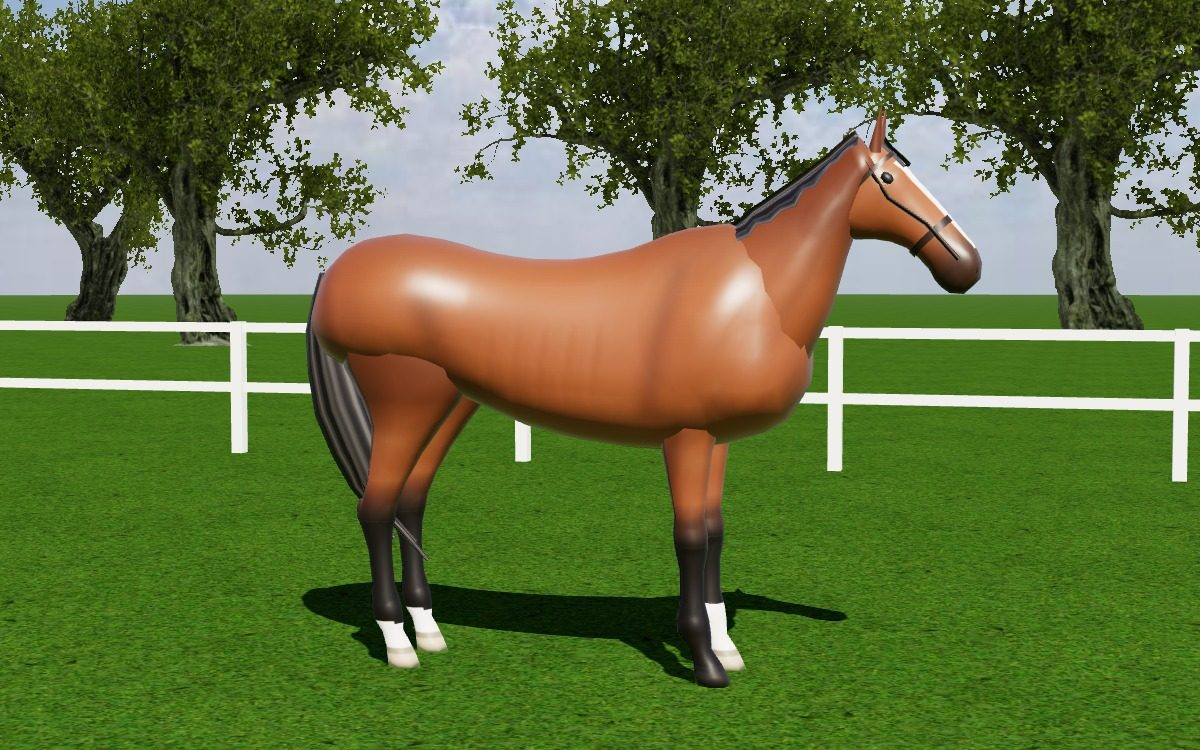
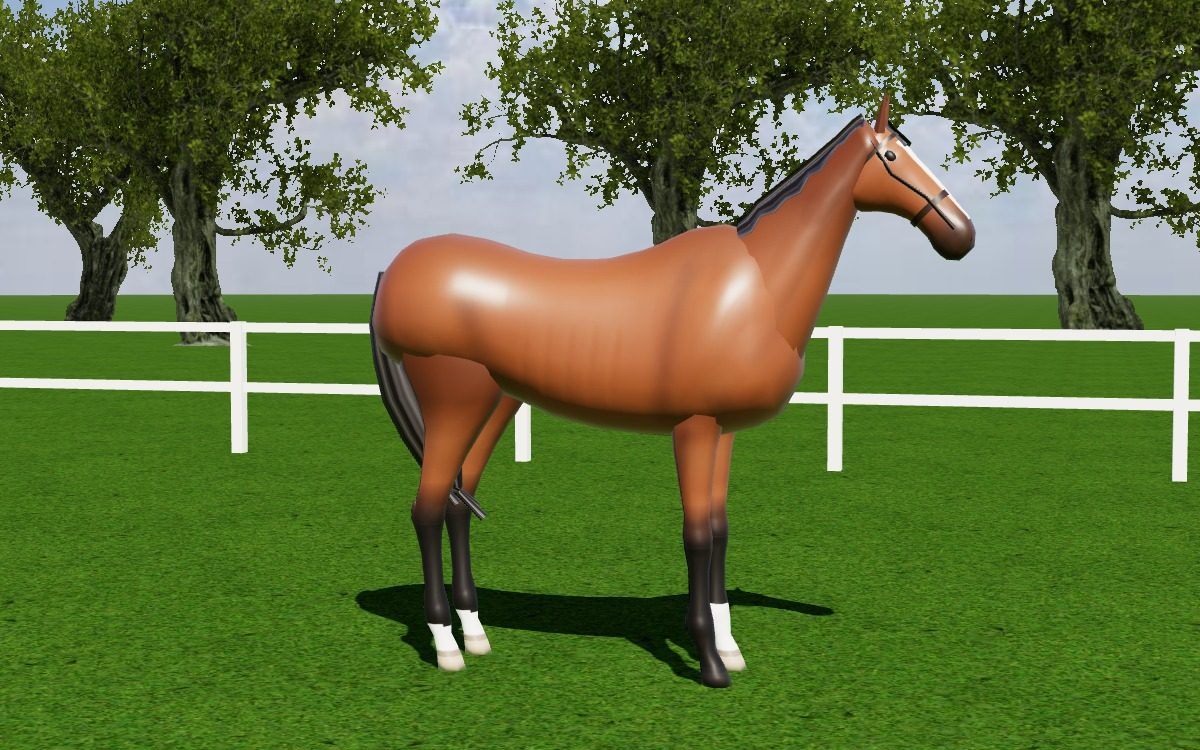
馬の体の比をサラブレッドに・芦毛の連銭をぼかした斑点に（配り役から伝わった依頼）
- 形と骨を表の座標で作ってから写し直す（mapBone・mapPt）：前脚より後ろを前後に 0.85 倍（体長 1.65m・体高 1.68m）、首は付け根から首の向きに 1.1 倍・太さ 0.9 倍・横 0.86 倍、頭は首の先へ動かして 0.9 倍、騎手は前後にずらすだけ。法線は写したあとに計算し直す
- 腹を上げて胴を浅く（深さ 0.79m・肘の高さ 0.97m）、胸の前の出っ張りを控えめに
- 騎手の IK（atBone）・蹄の位置（HOOF_OFF）も同じ写し方に。IK のずれは前と同じ（手 1.3cm・足 0cm）
- 毛の絵の丸いぼかしを、黒へでなく同じ色へ透けるように（縁が輪にならない）。連銭は胴と尻に多く、2〜4歳ではっきり、白くなるほど薄く（art.js の coatLook）
- テスト 'look:'：体の比と連銭の濃さの確かめを足す
- 前後の絵を docs/shots/horse3d_v2 に

Claude-Session: https://claude.ai/code/session_01HiyoSLCN7tZdgF4e9KXg2H

Changed region(s): [[0.2467, 0.1227, 0.8325, 0.92], [0.5242, 0.3067, 0.5858, 0.3373], [0.4933, 0.3373, 0.5242, 0.368]]

diff --git a/js/ui/race3d.js b/js/ui/race3d.js
@@ -428,7 +428,7 @@
   const HD = [0.62, -0.785], HU = [0.785, 0.62];        // 頭の向き（鼻先へ）と、顔の前の向き
   const GEAR0 = [1.3, 1.63];                            // 馬具の骨の付け根（頭の中。使わない馬具はここへ縮める）
   const GEAR = { shadowRoll: 32, blinkers: 33, hood: 34, cheekPieces: 35 };
-  const BONES = (() => {
+  const BONES0 = (() => {
     const b = [];
     const put = (i, par, x, y, z) => { b[i] = [par, x, y, z || 0]; };
     put(0, -1, 0, 0); put(1, 0, 0, 1.25);
@@ -442,12 +442,42 @@
     for (let i = 32; i <= 35; i++) put(i, 4, GEAR0[0], GEAR0[1]);
     return b;
   })();
+  // ---- 体の比（サラブレッド：体長と体高がほぼ同じ、首は細く長く、頭は小さく） ----
+  // 形と骨は上の表の座標で作り、最後にこの写し方で比を直す（表を書き直さずに済むように）。uv は写す前の座標のまま
+  //   胴・脚・尾：前脚より後ろ（x < PIV）を前後に KX 倍に縮める
+  //   首：付け根から首の向きに伸ばし、太さを細く。頭：首の先へ動かして小さく。騎手：胴の上で前後にずらすだけ
+  const PIV = 0.66, KX = 0.85, NK = { base: [0.5, 1.45], ang: 0.9, along: 1.1, across: 0.9, z: 0.86 }, HK0 = 0.9;
+  const tX = x => x < PIV ? PIV + (x - PIV) * KX : x;
+  const JSH = tX(0.1) - 0.1;
+  function neckMap(x, y, z) {
+    x = tX(x);
+    const bx = tX(NK.base[0]), by = NK.base[1], ca = Math.cos(NK.ang), sa = Math.sin(NK.ang);
+    const dx = x - bx, dy = y - by, u = dx * ca + dy * sa, v = -dx * sa + dy * ca;
+    const u2 = u * NK.along, v2 = v * NK.across;
+    return [bx + u2 * ca - v2 * sa, by + u2 * sa + v2 * ca, z * NK.z];
+  }
+  const HEADP = neckMap(HEAD0[0], HEAD0[1], 0);
+  function mapBone(x, y, z, bone) {
+    if (bone >= 24 && bone <= 31) return [x + JSH, y, z];
+    if (bone === 2 || bone === 3) return neckMap(x, y, z);
+    if (bone === 4 || bone >= 32) return [HEADP[0] + (x - HEAD0[0]) * HK0, HEADP[1] + (y - HEAD0[1]) * HK0, z * HK0];
+    return [tX(x), y, z];
+  }
+  // 点 P（表の座標）を、骨 a・b（b の重み w）で写す
+  function mapPt(x, y, z, a, b, w) {
+    const A = mapBone(x, y, z, a);
+    if (!w || a === b) return A;
+    const Bp = mapBone(x, y, z, b);
+    return [A[0] + (Bp[0] - A[0]) * w, A[1] + (Bp[1] - A[1]) * w, A[2] + (Bp[2] - A[2]) * w];
+  }
+  // 骨の付け根は、その骨の写し方で
+  const BONES = BONES0.map(([par, x, y, z], i) => [par].concat(mapBone(x, y, z || 0, i)));
 
   // 胴の断面：[x, 背の高さ, 腹の高さ, 横の半幅, 上ほど細く]
   const BODY_T = [
-    [0.89, 1.42, 1.12, 0.1, 0.1], [0.84, 1.54, 0.99, 0.2, 0.15], [0.74, 1.625, 0.92, 0.25, 0.24], [0.59, 1.685, 0.875, 0.27, 0.36],
-    [0.41, 1.665, 0.845, 0.28, 0.36], [0.23, 1.595, 0.85, 0.29, 0.26], [0.03, 1.555, 0.875, 0.3, 0.15], [-0.17, 1.555, 0.925, 0.3, 0.1],
-    [-0.35, 1.575, 1.0, 0.3, 0.06], [-0.53, 1.625, 1.075, 0.305, 0.04], [-0.69, 1.655, 1.1, 0.305, 0.06], [-0.83, 1.635, 1.12, 0.28, 0.1],
+    [0.86, 1.42, 1.13, 0.1, 0.1], [0.82, 1.54, 1.01, 0.19, 0.15], [0.74, 1.625, 0.95, 0.24, 0.24], [0.59, 1.685, 0.91, 0.26, 0.36],
+    [0.41, 1.665, 0.895, 0.275, 0.36], [0.23, 1.595, 0.9, 0.285, 0.26], [0.03, 1.555, 0.915, 0.295, 0.15], [-0.17, 1.555, 0.955, 0.295, 0.1],
+    [-0.35, 1.575, 1.02, 0.295, 0.06], [-0.53, 1.625, 1.075, 0.305, 0.04], [-0.69, 1.655, 1.1, 0.305, 0.06], [-0.83, 1.635, 1.12, 0.28, 0.1],
     [-0.94, 1.58, 1.15, 0.23, 0.14], [-1.01, 1.49, 1.2, 0.15, 0.2], [-1.05, 1.39, 1.27, 0.065, 0.2],
   ];
   // 首の断面：[たてがみの側の点 x, y, のどの側の点 x, y, 半幅, 骨a, 骨b, bの重み]
@@ -616,8 +646,8 @@
   // 胴の面の筋肉のふくらみ：[中心 x, y, 長い向きの半径, 短い向きの半径, 長い向きの傾き(rad), 高さ(m), 横を向いた面だけ(1)か前も(0)]
   const MUSCLES = [
     [0.6, 1.36, 0.28, 0.1, 1.15, 0.045, 1],    // 肩（き甲から肩の先へ斜め）
-    [0.8, 1.12, 0.13, 0.09, 0.3, 0.05, 0],     // 胸前（前脚の付け根）
-    [0.69, 1.07, 0.1, 0.06, 1.4, 0.028, 1],     // 上腕
+    [0.78, 1.13, 0.12, 0.08, 0.3, 0.026, 0],   // 胸前（前脚の付け根）
+    [0.67, 1.08, 0.1, 0.06, 1.4, 0.022, 1],    // 上腕
     [-0.64, 1.3, 0.26, 0.17, 1.2, 0.046, 1],   // 尻から太もも
     [-0.5, 1.56, 0.22, 0.1, 0.1, 0.014, 0],    // 腰の張り
   ];
@@ -739,11 +769,11 @@
       // のど（首と頭のつなぎ）
       blob(B, V3(1.045, 1.72, 0), 0.1, 0.1, 0.082, 8, 6, { uvf: sideUV, skinf: () => [3, 4, 0.5] }, -0.6);
       // 尾の房：付け根から3本に分かれて下へ流れる
-      for (const [dz, dy, ext] of [[-0.04, 0.0, 0.16], [0.04, 0.01, 0.12], [0, -0.03, 0.22]]) {
+      for (const [dz, dy, ext] of [[-0.04, 0.0, 0.1], [0.04, 0.01, 0.07], [0, -0.03, 0.13]]) {
         const pts = [], rr = [], sks = [];
         TAIL_T.forEach((r, i) => { if (i < 2) return; const f = (i - 2) / (TAIL_T.length - 3); pts.push(V3(r[0] - 0.01, r[1] + dy * f, dz * f)); rr.push(r[3] * 0.62 * (1 - 0.3 * f)); sks.push([r[4], r[5], r[6]]); });
         const e = pts[pts.length - 1];
-        pts.push(e.clone().add(V3(-ext * 0.45, -ext, dz * 0.5))); rr.push(0.008); sks.push([7, 7, 0]);
+        pts.push(e.clone().add(V3(-ext * 0.45, -ext, dz * 0.5))); rr.push(0.022); sks.push([7, 7, 0]);
         tube(B, pts, rr, 4, sks, (i, j, P) => rUV(R_HAIR, 0.5 + (j % 4) * 0.12, 1 - i / (pts.length - 1)), { cap0: true });
       }
     }
@@ -880,6 +910,16 @@
       }
     }
     const g = B.build();
+    // 体の比を直す（上の mapPt）。法線は写したあとの形から計算し直す
+    {
+      const P = g.attributes.position, si = g.attributes.skinIndex.array, sw = g.attributes.skinWeight.array;
+      for (let i = 0; i < P.count; i++) {
+        const m = mapPt(P.getX(i), P.getY(i), P.getZ(i), si[i * 4], si[i * 4 + 1], sw[i * 4 + 1]);
+        P.setXYZ(i, m[0], m[1], m[2]);
+      }
+      g.computeVertexNormals();
+      g.computeBoundingSphere();
+    }
     g.boundingSphere.radius += 0.8; // 脚・首・尾が動いても切れないように
     return g;
   }
@@ -889,6 +929,13 @@
   function coatLook(c, age) {
     const A = HS.Art;
     return A && A.coatLook ? A.coatLook(c, age) : DEF_LOOK;
+  }
+  // 色（#rrggbb・rgb()・rgba()）を、同じ色で不透明度 a に
+  function clear(col, a) {
+    let r = 0, gg = 0, b = 0, a0 = 1;
+    if (col[0] === '#') { r = parseInt(col.slice(1, 3), 16); gg = parseInt(col.slice(3, 5), 16); b = parseInt(col.slice(5, 7), 16); }
+    else { const m = col.match(/[\d.]+/g) || []; r = +m[0] || 0; gg = +m[1] || 0; b = +m[2] || 0; if (m[3] != null) a0 = +m[3]; }
+    return `rgba(${r},${gg},${b},${a0 * a})`;
   }
   function paintHorse(h, res) {
     res = res || 256;
@@ -907,11 +954,14 @@
       const gr = g.createLinearGradient(0, py(1.7), 0, py(0.85));
       gr.addColorStop(0, L.top); gr.addColorStop(0.3, L.body); gr.addColorStop(0.75, L.body); gr.addColorStop(1, L.belly);
       g.fillStyle = gr; g.fillRect(rx, ry, rw, rh);
-      const spot = (x, y, rr, col, a) => { const R = rr / (SY1 - SY0) * rh; const gg = g.createRadialGradient(px(x), py(y), 0, px(x), py(y), R); gg.addColorStop(0, col); gg.addColorStop(1, 'rgba(0,0,0,0)'); g.globalAlpha = a; g.fillStyle = gg; g.fillRect(px(x) - R, py(y) - R, R * 2, R * 2); g.globalAlpha = 1; };
+      // 丸いぼかし（外へ同じ色のまま透ける。黒へ透けると縁が輪になる）
+      const spot = (x, y, rr, col, a) => { const R = rr / (SY1 - SY0) * rh; const gg = g.createRadialGradient(px(x), py(y), 0, px(x), py(y), R); gg.addColorStop(0, col); gg.addColorStop(0.45, clear(col, 0.7)); gg.addColorStop(1, clear(col, 0)); g.globalAlpha = a; g.fillStyle = gg; g.fillRect(px(x) - R, py(y) - R, R * 2, R * 2); g.globalAlpha = 1; };
       if (L.tan) { spot(-0.42, 1.08, 0.3, L.tan, 0.75); spot(0.38, 1.0, 0.22, L.tan, 0.6); spot(-0.7, 1.15, 0.2, L.tan, 0.35); }
-      if (L.dapple > 0) for (let i = 0; i < 70; i++) {
+      // 連銭：ぼかした丸の斑点（胴と尻に多く、腹・胸の前には少なく）
+      if (L.dapple > 0) for (let i = 0; i < 90; i++) {
         const x = -1.05 + hash01(i, 91) * 1.9, y = 0.95 + hash01(i, 92) * 0.68;
-        spot(x, y, 0.045 + hash01(i, 93) * 0.04, L.dappleCol, L.dapple * (0.5 + hash01(i, 94) * 0.5));
+        const edge = Math.min(1, Math.max(0, (y - 0.95) / 0.15)) * Math.min(1, Math.max(0, (0.85 - x) / 0.25));
+        spot(x, y, 0.035 + hash01(i, 93) * 0.035, L.dappleCol, L.dapple * edge * (0.45 + hash01(i, 94) * 0.45));
       }
       if (L.roan > 0) { g.fillStyle = 'rgba(235,232,226,' + (0.25 * L.roan) + ')'; for (let i = 0; i < 900; i++) { const x = -1.0 + hash01(i, 95) * 1.8, y = 0.9 + hash01(i, 96) * 0.75; g.fillRect(px(x), py(y), 1, 1); } }
       // 筋肉の境の陰（肩の後ろ・肘・首の下・脇腹・尻の後ろ・後膝）。ぼかした線で
@@ -1099,7 +1149,7 @@
   const BOB = [[0, -0.3], [0.13, -0.7], [0.3, -0.2], [0.46, -0.6], [0.6, -0.5], [0.75, 0.2], [0.88, 0.8]];  // 胴の上下（浮く間が高い）
   const PITCH = [[0, 0.3], [0.16, 0.7], [0.34, 0.1], [0.5, -0.6], [0.66, -0.6], [0.84, -0.1]];          // 胴の前後の傾き（＋＝鼻が上）
   const NOD = [[0, 0.5], [0.2, 0.8], [0.4, 0.0], [0.56, -0.8], [0.72, -0.6], [0.86, 0.0]];               // 首の上下（＋＝上げる）
-  const HOOF_OFF = [0.07, -0.215, 0];
+  const HOOF_OFF = [0.07 * KX, -0.215, 0];
   const _m = { a: null, v: null };
   // 蹄の底の高さ（馬の形の中で。胴の骨から関節をたどる）
   function hoofY(b, b0) {
@@ -1303,7 +1353,7 @@
   }
   // 手作りの骨 bone の中の点（馬の形の座標で書いた点 P から、その骨の付け根 J を引いた差）→ 世界の点
   const atBone = (bones, i, x, y, z) => {
-    const J = BONES[i], v = new THREE.Vector3(x - J[1], y - J[2], z - J[3]);
+    const J = BONES[i], m = mapBone(x, y, z, i), v = new THREE.Vector3(m[0] - J[1], m[1] - J[2], m[2] - J[3]);
     return v.applyMatrix4(bones[i].matrixWorld);
   };
   // 馬の形の向き（胴の骨の向き）→ 世界の向き
@@ -1355,6 +1405,7 @@
   // テスト用：馬の形（q＝1 近く・0 遠く）と骨の数
   R3.horseGeometry = (q, o) => horseGeometry(q, o);
   R3.BONES = BONES.length;
+  R3.BONE_AT = i => BONES[i].slice(1); // テスト用：骨の付け根（体の比を直したあとの座標）
   R3.GEAR = GEAR;
 
   // ---- 本体 ----

diff --git a/js/ui/art.js b/js/ui/art.js
@@ -38,7 +38,8 @@
     if (!L.grey) return L;
     const a = age == null || !isFinite(age) ? 4 : age;
     const w = Math.max(0, Math.min(1, (a - 1.5) / 7));
-    const out = { gloss: L.gloss, grey: true, dapple: 0.9 * Math.max(0, 1 - Math.abs(w - 0.35) / 0.45), pointsSoft: true };
+    // 連銭は2〜4歳ではっきり、年を取って白くなるほど薄く消える
+    const out = { gloss: L.gloss, grey: true, dapple: 0.85 * Math.max(0, Math.min(1, w / 0.12)) * Math.max(0, 1 - Math.max(0, w - 0.3) / 0.45), pointsSoft: true };
     for (const k of Object.keys(L.young)) out[k] = mixHex(L.young[k], L.old[k], w);
     return out;
   };

diff --git a/CHANGELOG.md b/CHANGELOG.md
@@ -10,7 +10,7 @@
 - コースレコードの一覧を、競馬場・芝ダート・距離で絞れるようにした。持ちタイム・馬・騎手・年と、前のレコードとの差を出し、自分が乗って作ったレコードは★と金の帯で目立たせる。レコードを破ったレースは、ゴールの後と掲示板と結果の画面に「RECORD」と前のレコードとの差を出す。
 - 年末のグランドフィナーレの招待を作り直した：G1を勝った自分の馬と前の年の勝ち馬は必ず招待、残りはその年の「ファンの票」（G1の1着100票・G2 50票・G3 30票・好走と1番人気でも増える）の上位16頭。外国の馬は4頭まで。ホームに自分の馬ごとの「資格あり・圏内・圏外（あと何票）」を出す。12月1週に招待が届いたら、出るか出ないかを選び、出るなら招待された馬から1頭（能力・調子・総合力・特殊能力の札）を選ぶ。出ない年もレースは週のまとめから観戦できる。
 - BGM を作り直した：90年代後半のゲーム音楽のような、ブラスとリードシンセが歌うフュージョン・ロック。FM 風のブラスとエレピ、スラップベース、張りのあるスネアとハイハットの刻み、軽い響き。場面ごとに曲を書き下ろした（タイトル・ホーム・パドック・グランドフィナーレのパドック・発走前のファンファーレ・グランドフィナーレのファンファーレ・レース・勝ったとき・負けたとき・成績と表彰）。
-- 3Dのレースの坂とコーナーをコースの実際の形と高さで見せるようにした：地面・ラチ・ハロン棒・スタンド・ゲート・木・池がコースの上り下りに沿い、内馬場と外の地面は高さをなだらかにつなぐ。おにぎり型・直線（新潟の千直）・馬蹄形のコースでも地面と置き物が崩れない。坂では中継のカメラが少し低い望遠になり、騎乗の視点は前の坂がせり上がって見える。観客を立体（1万5千人ほど。服・髪・背の高さがばらばら）にし、馬の影を濃く、ダートを土の塊と蹄の跡のある色にした。馬を作り込んだ：肩・胸前・尻の筋肉のふくらみ、のどと頬で頭と首をつなぎ、球節・飛節の角・蹄を太く、たてがみは房のぎざぎざ、尾は3本の房、走るときの体の上下と首の振りを大きく。き甲・背のくぼみ・腹の巻き上がり・尻の丸みの線、目の上のくぼみ・鼻筋・鼻の穴・顎の彫り、毛に筋肉の陰とつやを足した。結果の画面の背景をサッカー場の写真から、このゲームの競馬場のゴール前の絵にした。
+- 3Dのレースの坂とコーナーをコースの実際の形と高さで見せるようにした：地面・ラチ・ハロン棒・スタンド・ゲート・木・池がコースの上り下りに沿い、内馬場と外の地面は高さをなだらかにつなぐ。おにぎり型・直線（新潟の千直）・馬蹄形のコースでも地面と置き物が崩れない。坂では中継のカメラが少し低い望遠になり、騎乗の視点は前の坂がせり上がって見える。観客を立体（1万5千人ほど。服・髪・背の高さがばらばら）にし、馬の影を濃く、ダートを土の塊と蹄の跡のある色にした。馬を作り込んだ：肩・胸前・尻の筋肉のふくらみ、のどと頬で頭と首をつなぎ、球節・飛節の角・蹄を太く、たてがみは房のぎざぎざ、尾は3本の房、走るときの体の上下と首の振りを大きく。き甲・背のくぼみ・腹の巻き上がり・尻の丸みの線、目の上のくぼみ・鼻筋・鼻の穴・顎の彫り、毛に筋肉の陰とつやを足した。馬の体の比をサラブレッドに（体長と体高がほぼ同じ・首を細く長く・頭を小さく・胸の前を控えめに）。芦毛の連銭を輪でなくぼかした斑点にし、年を取って白くなるほど薄くした。結果の画面の背景をサッカー場の写真から、このゲームの競馬場のゴール前の絵にした。
 - 3Dのレースを素材で作り直した：写真の空（晴れ・曇り）と映り込みの光、写真の芝（刈り目の縞・内ラチ沿いの荒れ）とダートの砂、本物の木の板絵、遠くの霞、太陽の影、色の調子（ACES）。騎手は人の形の素材にし、勝負服の柄・帽子・ゴーグル・白いズボン・長靴を着せて、追う・ムチ・ガッツポーズに体ごと合わせる。ダートは砂けむりと砂粒、芝は土くれが蹄の後ろに舞う。スタンドの前に立ち見の観客を足した。馬の画面と店・厩舎の馬の絵も、3D の馬（毛色・白徴・馬具つき）をパドックで描いた絵にした。重い端末では影→画素の細かさの順に自動で落とす（素材はすべて CC0。出典は assets/CREDITS.md）。
 - 画面をゲームらしく派手にした：タイトル・ホーム・馬の店・パドック・結果に大きな背景の写真（Poly Haven の CC0 素材）を敷き、タイトルは大きな題字と駆け抜ける馬群で、クリック・Enter・ゲームパッドでメニューが出る。ホームのコマンドと押せる物を厚みのある札に、馬の店は毛色の肖像・総合力・値段の札を一行ずつ並べ、画面を替えると金の光がよぎって中身が入ってくる。重賞を勝ったとき・トロフィーを手にしたとき・スペシャルホースを破ったときは、光の筋と紙吹雪と大きな題字で見せる（動きを減らす設定の端末では止める）。メニューは十字キー・矢印キーで選べ、選んでいる札が金に光る（Enter・A で押す、Esc・B で閉じる・もどる）。1600px 以上の画面では列を広げる。
 - 騎乗中の短い合図を英語にした（START・GOOD START・LATE START・視点の名前・1st などの着順）。

diff --git a/docs/shots/terrain3d/README.md b/docs/shots/terrain3d/README.md
@@ -13,3 +13,5 @@
 馬の作り込み（区切り2）：`docs/shots/horse3d_v2/before_after.jpg`（左が前・右が後。横からの襲歩6コマ・頭と首・脚・後ろ・肖像）と `portrait.jpg`。`compare_*` はこの区切りで撮り直した。
 
 区切り3（背と腹の線・頭の彫り・毛のつや）：`docs/shots/horse3d_v2/before_after_2.jpg`（左が区切り2・右が区切り3）、`portrait_coats.jpg`（左上が区切り2の鹿毛、右上・左下・右下が区切り3の鹿毛・黒鹿毛・芦毛）、`head_before_after.jpg`、`portrait.jpg`。`compare_*` はこの区切りで撮り直した。
+
+区切り4（サラブレッドの比・連銭）：`docs/shots/horse3d_v2/before_after_3.jpg`（左が区切り3・右が区切り4）、`proportion_before_after.jpg`（肖像の比の前後）、`portrait_coats_3.jpg`（鹿毛・黒鹿毛・芦毛（4歳）・栗毛）、`portrait.jpg`。
